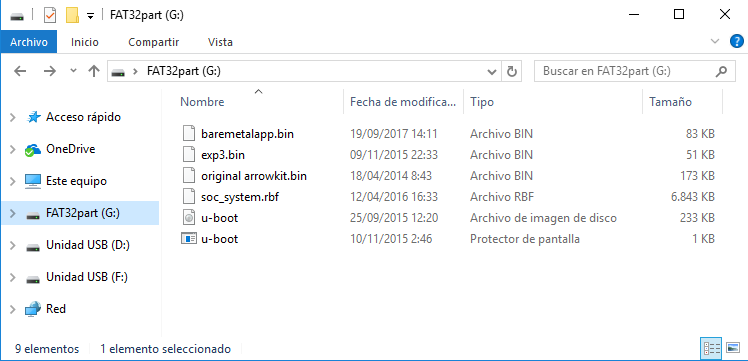
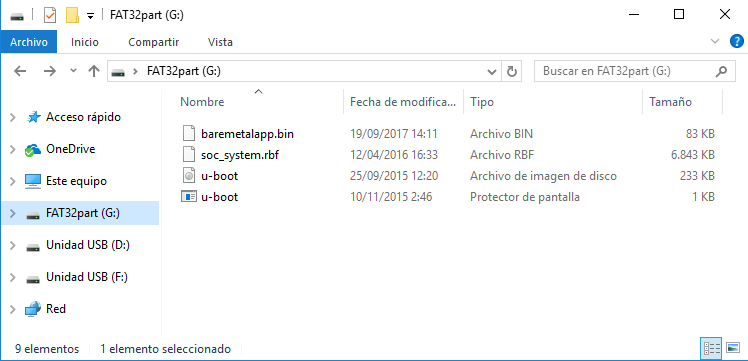
update SD-Baremetal README to include a FAT32 partition image

diff --git a/SD-baremetal/README.md b/SD-baremetal/README.md
@@ -35,6 +35,12 @@ Steps to build the SD card
 * Create FPGA bitstream (only needed when using u-boot during boot process): The typical Quartus compilation outputs a .sof file with the FPGA hardware. To load it from the SD card we first need to convert the .sof file into .rbf file. This is done in Quartus->File->Convert Programming Files. The output should be called soc_system.rbf" to match the name used u-boot script for the FPGA configuration file so the u-boot can find it.
 * Copy "baremetalapp.bin.img" or "baremetalapp.bin" to the partition 1, depending on the boot process selected (with preloader or with u-boot).
 
+The following figure shows the aspect of the FAT32 partition when using u-boot:
+<p align="center">
+  <img src="https://raw.githubusercontent.com/UviDTE-FPSoC/CycloneVSoC-examples/master/SD-baremetal/FAT32-partition.png" width="600" align="middle" alt="Cyclone V SoC simplified block diagram" />
+</p>
+
+
 How to run
 ----------
 * Put the SD card in the board.
